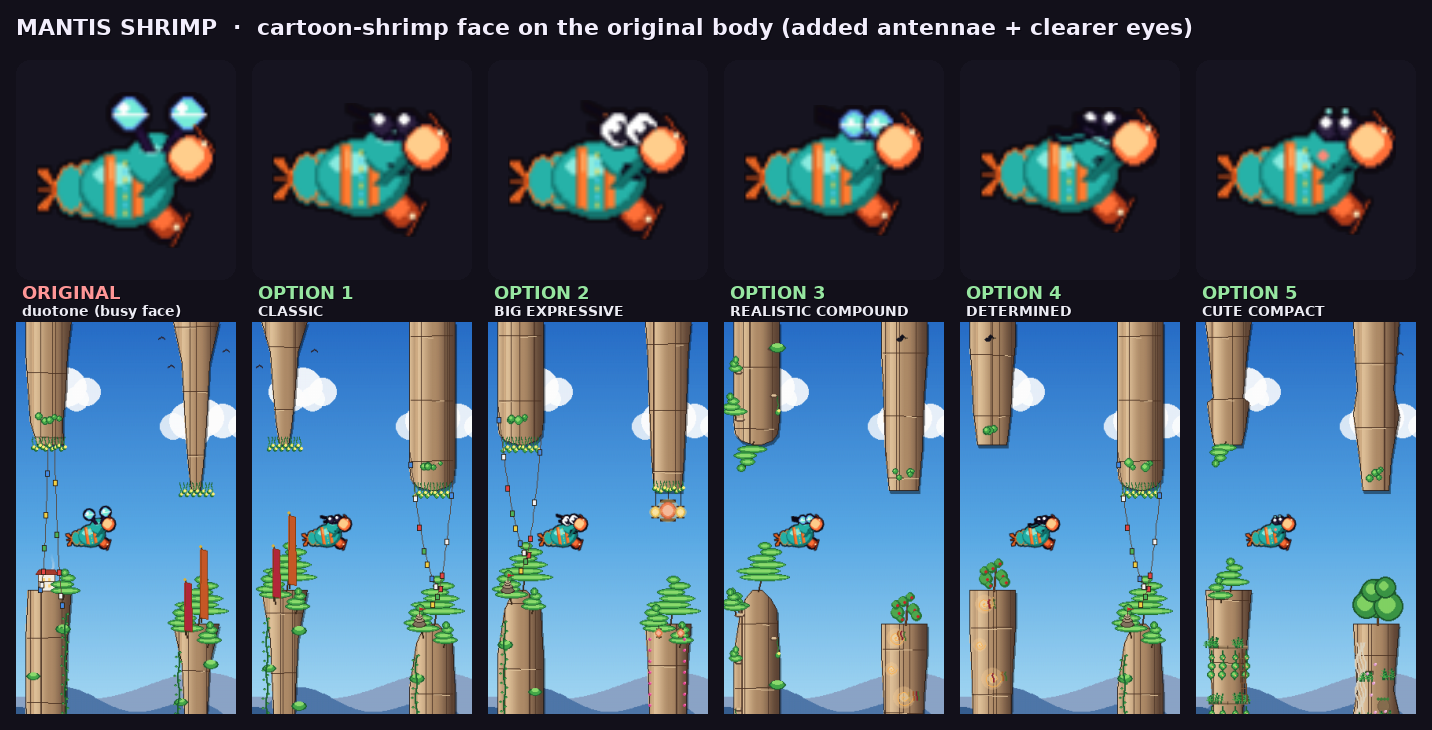
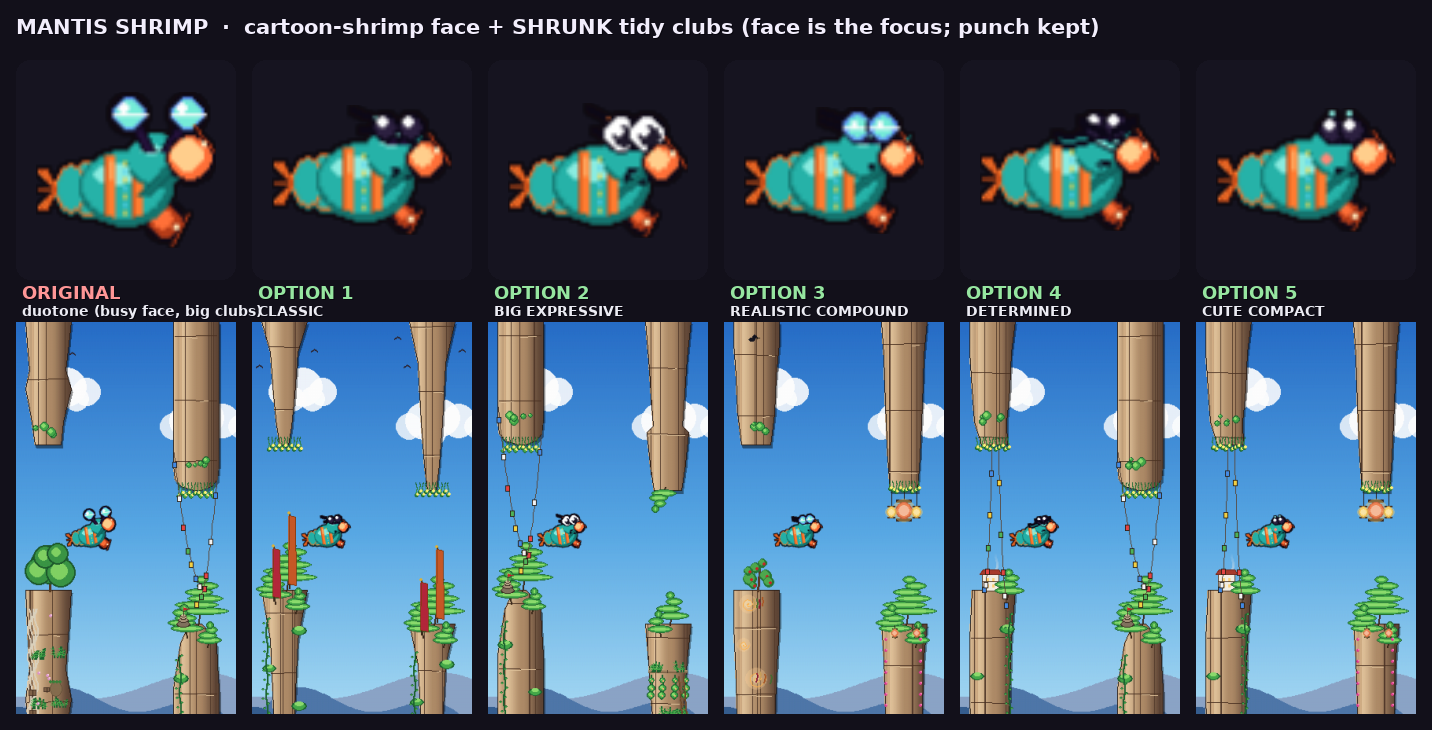
mantis shrimp: shrink + tidy the raptorial clubs (keep the punch gag, face stays the focus)

diff --git a/tools/mantis_shrimp_candidates/_shared.py b/tools/mantis_shrimp_candidates/_shared.py
@@ -93,11 +93,12 @@ def _jewel_eye(surf, cx, cy, r, *, glow):
 
 def _club_arm(surf, shoulder, elbow, fist, *, club_col, club_hi, arm_col,
               club_r, lead, glow, glow_r=None):
-    pygame.draw.line(surf, _RIM, shoulder, elbow, 5)
-    pygame.draw.line(surf, arm_col, shoulder, elbow, 3)
-    pygame.draw.line(surf, _RIM, elbow, fist, 5)
-    pygame.draw.line(surf, arm_col, elbow, fist, 3)
-    pygame.draw.circle(surf, arm_col, elbow, 2)
+    # Slimmer arm so the (shrunk) clubs read tidy and the face keeps focus.
+    pygame.draw.line(surf, _RIM, shoulder, elbow, 4)
+    pygame.draw.line(surf, arm_col, shoulder, elbow, 2)
+    pygame.draw.line(surf, _RIM, elbow, fist, 4)
+    pygame.draw.line(surf, arm_col, elbow, fist, 2)
+    pygame.draw.circle(surf, arm_col, elbow, 1)
     pygame.draw.circle(surf, _STALK_RIM, fist, club_r + 1)
     pygame.draw.circle(surf, club_col, fist, club_r)
     pygame.draw.circle(surf, club_hi, (fist[0] - 1, fist[1] - 1), max(1, club_r - 2))
@@ -150,7 +151,7 @@ def _build(wing_angle_deg, *, glow, face_fn):
     far_fist  = _lerp_pt((bcx + 4, bcy + 20), (bcx + 21, bcy + 10), s)
     _club_arm(surf, far_shoulder, far_elbow, far_fist,
               club_col=_CLUB_D, club_hi=_CLUB, arm_col=_CARA_D,
-              club_r=6, lead=False, glow=glow)
+              club_r=4, lead=False, glow=glow)
 
     _segmented_tail(surf, bcx - 7, bcy + 1, count=3, span=18)
 
@@ -173,13 +174,14 @@ def _build(wing_angle_deg, *, glow, face_fn):
     # ── FACE (head + eyes) — the only varying element ──
     face_fn(surf, hcx, hcy, rcy, s, glow)
 
-    # ── HERO: oversized lead club, drawn IN FRONT of the face (unchanged).
-    near_elbow = _lerp_pt((bcx + 13, bcy + 6), (hcx + 5, hcy + 0), s)
-    near_fist  = _lerp_pt((bcx + 19, bcy + 11), (hcx + 15, hcy - 10), s)
-    lead_glow_r = int(round(3 + s * 2))
+    # ── Lead club, drawn IN FRONT of the face. Shrunk + the punch pulled in so
+    #    it still throws forward but no longer covers/competes with the face.
+    near_elbow = _lerp_pt((bcx + 13, bcy + 6), (hcx + 4, hcy + 1), s)
+    near_fist  = _lerp_pt((bcx + 18, bcy + 11), (hcx + 12, hcy - 5), s)
+    lead_glow_r = int(round(2 + s * 2))
     _club_arm(surf, sh, near_elbow, near_fist,
               club_col=_CLUB, club_hi=_CLUB_H, arm_col=_CARA_D,
-              club_r=8, lead=True, glow=glow, glow_r=lead_glow_r)
+              club_r=6, lead=True, glow=glow, glow_r=lead_glow_r)
     return surf
 
 
